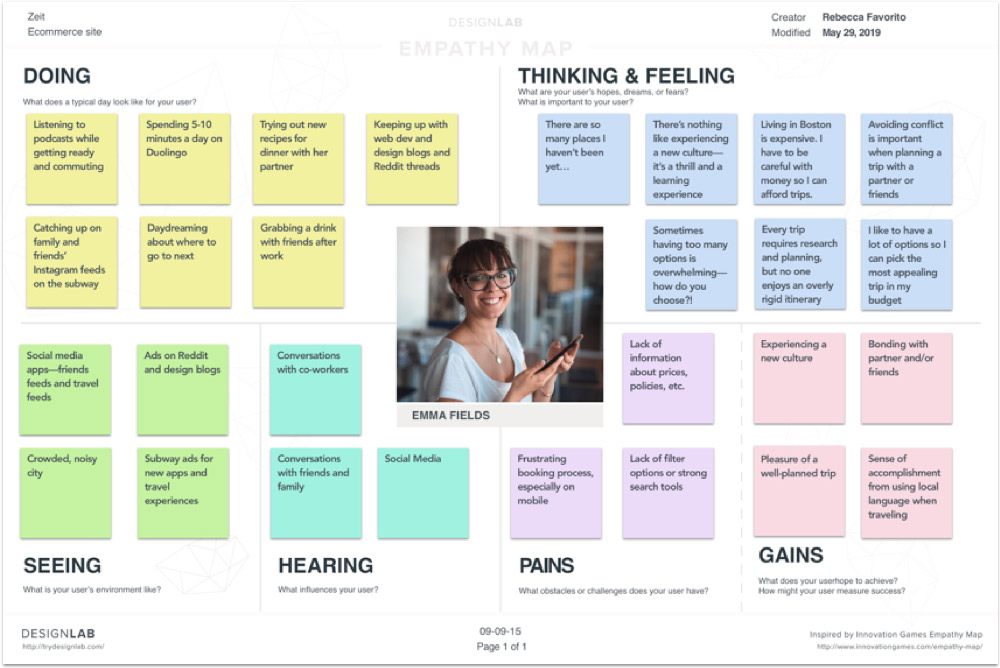
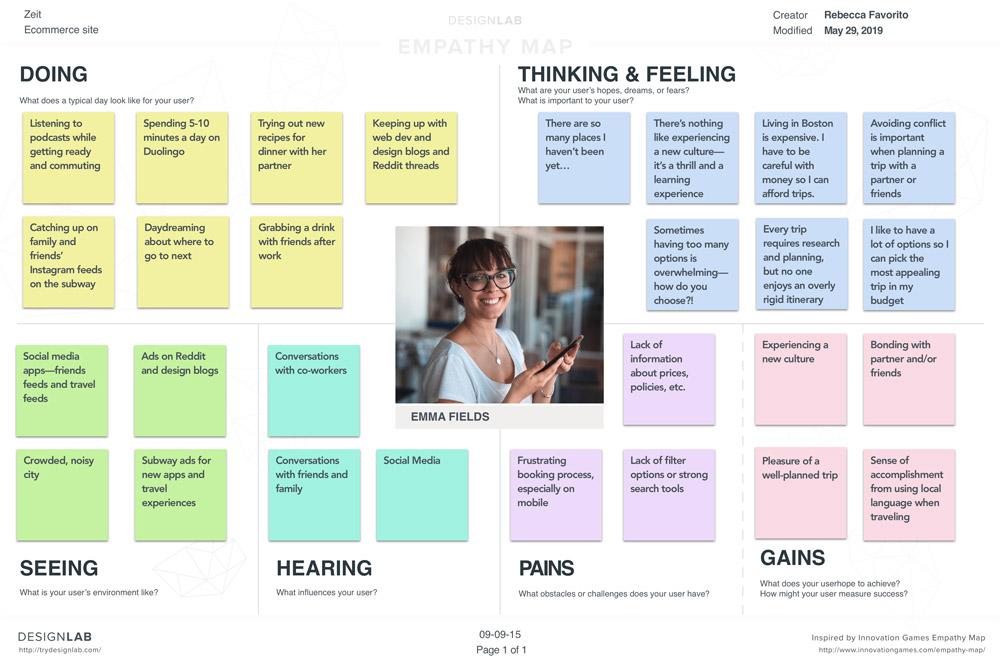
Image cleanup

diff --git a/growl.html b/growl.html
@@ -211,7 +211,7 @@ layout: default
     <h3>Brand Tile</h3>
     <div class="container">
       <p class="column column--7">I created a brand tile for GROWL! based on the existing logo and brand colors. The brand tile defines the brand attributes derived from my user research, an expanded color palette, the new typography style, and the image treatment for the redesigned site.</p>
-      <div class="column column--5 portfolio__image-container">
+      <div class="style--box-shadow-small column column--5 portfolio__image-container">
         <i class="portfolio__panel-zoom-button material-icons">zoom_in</i>
         <img src="assets/images/portfolio-thumbnails/growl-brand-tile.jpg" alt="A brand tile for the GROWL! website" class="portfolio__image" />
       </div>
@@ -220,9 +220,34 @@ layout: default
   <section class="section--no-padding">
     <h3>UI Designs</h3>
     <p class="style--75">I applied the updated brand style to the wireframes, focusing on the desktop version. As I worked on the UI, I made some changes to the layout and design of the homepage to create a cleaner, more modern look. </p>
-    <div class="portfolio__image-container">
-      <i class="portfolio__panel-zoom-button material-icons">zoom_in</i>
-      <img src="assets/images/portfolio-thumbnails/growl-ui-designs.jpg" alt="A complete UI design for the GROWL! website" class="portfolio__image" />
+    <div class="container">
+      <div class="column column-4 portfolio__image-container">
+        <i class="portfolio__panel-zoom-button material-icons">zoom_in</i>
+        <img src="assets/images/portfolio-thumbnails/growl-ui-design-1.jpg" alt="A complete UI design for the homepage of the GROWL! website" class="portfolio__image" />
+      </div>
+      <div class="column column-4 portfolio__image-container">
+        <i class="portfolio__panel-zoom-button material-icons">zoom_in</i>
+        <img src="assets/images/portfolio-thumbnails/growl-ui-design-2.jpg" alt="A complete UI design for the About page of the GROWL! website" class="portfolio__image" />
+      </div>
+      <div class="column column-4 portfolio__image-container">
+        <i class="portfolio__panel-zoom-button material-icons">zoom_in</i>
+        <img src="assets/images/portfolio-thumbnails/growl-ui-design-3.jpg" alt="A complete UI design for the Drinks page of the GROWL! website" class="portfolio__image" />
+      </div>
+    </div>
+    <br/>
+    <div class="container">
+      <div class="column column-4 portfolio__image-container">
+        <i class="portfolio__panel-zoom-button material-icons">zoom_in</i>
+        <img src="assets/images/portfolio-thumbnails/growl-ui-design-4.jpg" alt="A complete UI design for the Food page of the GROWL! website" class="portfolio__image" />
+      </div>
+      <div class="column column-4 portfolio__image-container">
+        <i class="portfolio__panel-zoom-button material-icons">zoom_in</i>
+        <img src="assets/images/portfolio-thumbnails/growl-ui-design-5.jpg" alt="A complete UI design for the Events page of the GROWL! website" class="portfolio__image" />
+      </div>
+      <div class="column column-4 portfolio__image-container">
+        <i class="portfolio__panel-zoom-button material-icons">zoom_in</i>
+        <img src="assets/images/portfolio-thumbnails/growl-ui-design-6.jpg" alt="A complete UI design for the On Display page of the GROWL! website" class="portfolio__image" />
+      </div>
     </div>
   </section>
   <section class="section--no-padding">

diff --git a/zeit.html b/zeit.html
@@ -137,7 +137,7 @@ layout: default
     <div class="container">
       <p class="column column--6">The persona was created as a composite representative of the demographics and psychometrics of the users I interviewed. Like the interview participants, Emma appreciates travel sites that provide clear information about their trips and an easy booking process.</p>
       <div class="column column--1"></div>
-      <div class="column column--5 portfolio__image-container">
+      <div class="style--box-shadow-small column column--5 portfolio__image-container">
         <i class="portfolio__panel-zoom-button material-icons">zoom_in</i>
         <img src="assets/images/portfolio-thumbnails/zeit-persona.jpg" alt="An image with user persona information" class="portfolio__image" />
       </div>
@@ -148,7 +148,7 @@ layout: default
     <div class="container">
       <p class="column column--6">Considering Emma’s environment, thoughts and feelings, pains, and gains provided valuable insights for developing the information architecture, task flows, and interaction designs for the site—particularly the site hierarchy and extensive filtering options.</p>
       <div class="column column--1"></div>
-      <div class="column column--5 portfolio__image-container">
+      <div class="style--box-shadow-small column column--5 portfolio__image-container">
         <i class="portfolio__panel-zoom-button material-icons">zoom_in</i>
         <img src="assets/images/portfolio-thumbnails/zeit-empathy-map.jpg" alt="An image depicting an empathy map" class="portfolio__image" />
       </div>
@@ -184,7 +184,7 @@ layout: default
     <div class="container">
       <p class="column column--4">Based on the results of the card sorting, I decided to categorize the trips into geographic, historical, and thematic categories based on the categories created by the card sorting participants, with some modifications for clarity and consistency.</p>
       <div class="column column--1"></div>
-      <div class="column column--7 portfolio__image-container">
+      <div class="style--box-shadow-small column column--7 portfolio__image-container">
         <i class="portfolio__panel-zoom-button material-icons">zoom_in</i>
         <img src="assets/images/portfolio-thumbnails/zeit-site-map.jpg" alt="An image depicting a site map for Zeit" class="portfolio__image" />
       </div>

diff --git a/_sass/sections.scss b/_sass/sections.scss
@@ -140,6 +140,9 @@
   .section--content-left {
     > :first-child {
       order: 2;
+      padding-right: 0;
+    }
+    > :nth-child(2) {
       padding-right: 2rem;
     }
   }

diff --git a/_sass/styles.scss b/_sass/styles.scss
@@ -10,6 +10,10 @@
   box-shadow: $box-shadow;
 }
 
+.style--box-shadow-small {
+  box-shadow: 0 1px 1px rgba(0, 0, 0, 0.4);
+}
+
 .style--hyphens {
   hyphens: auto;
 }
